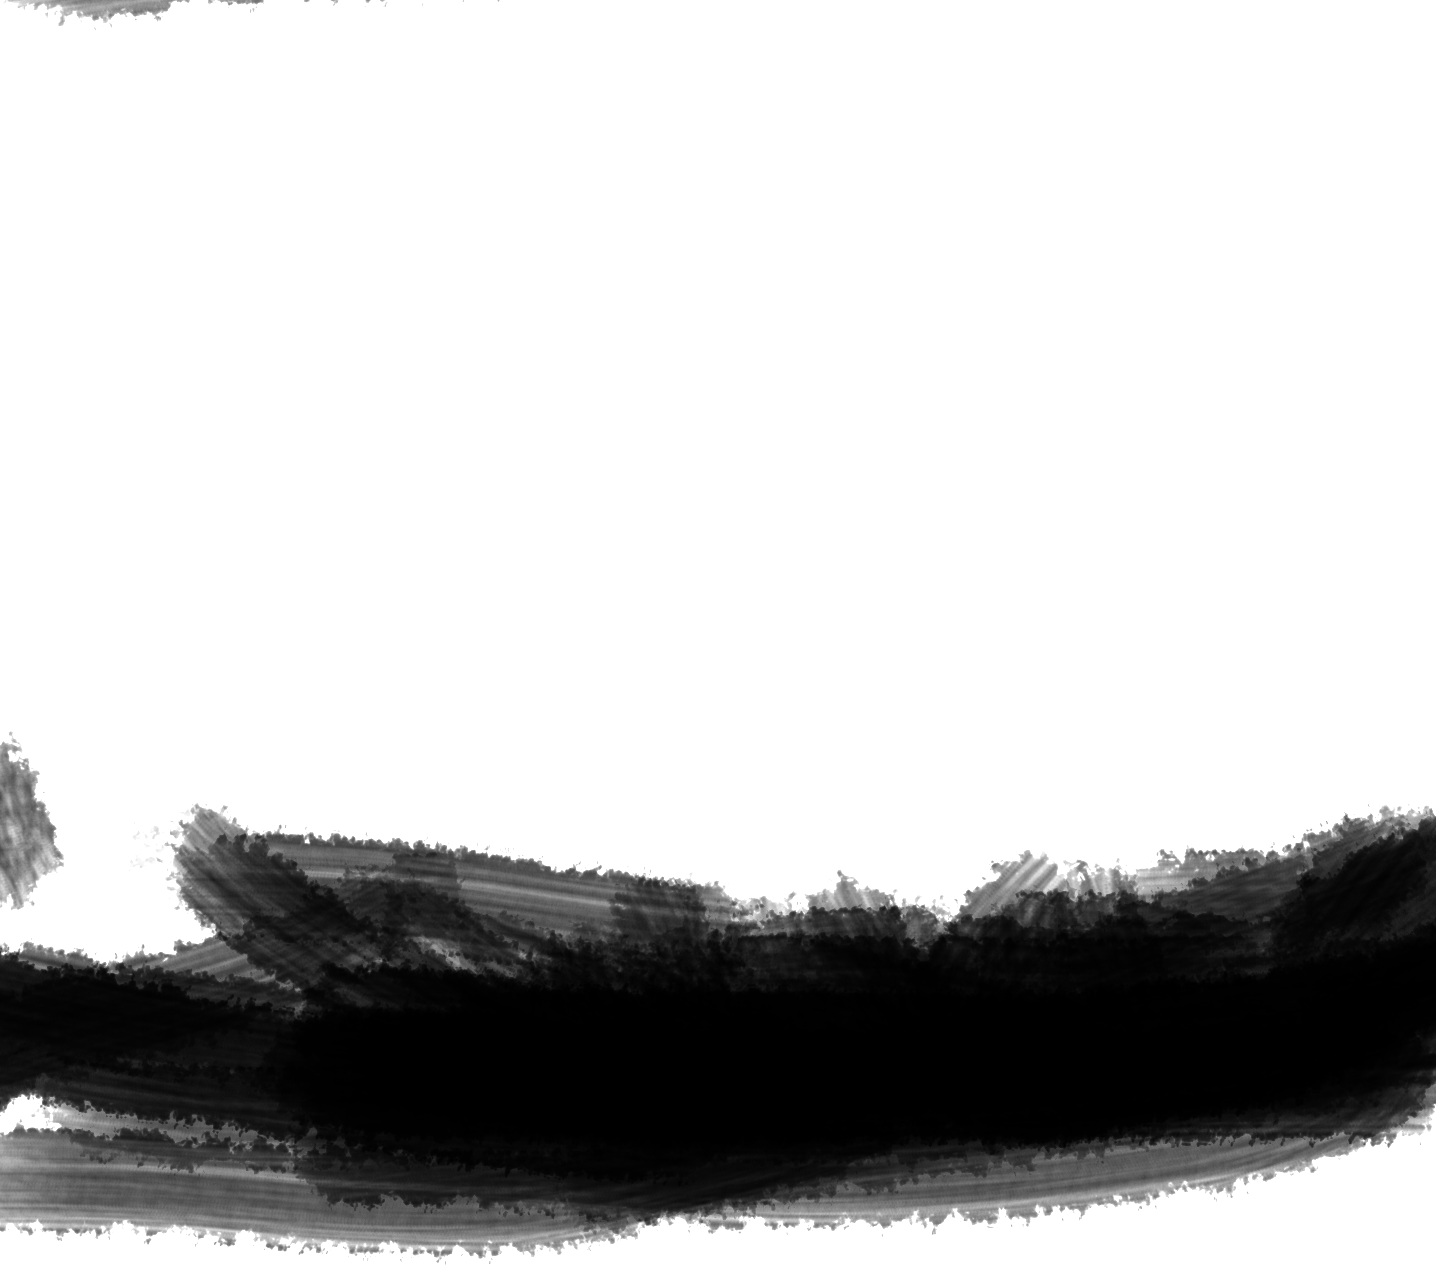
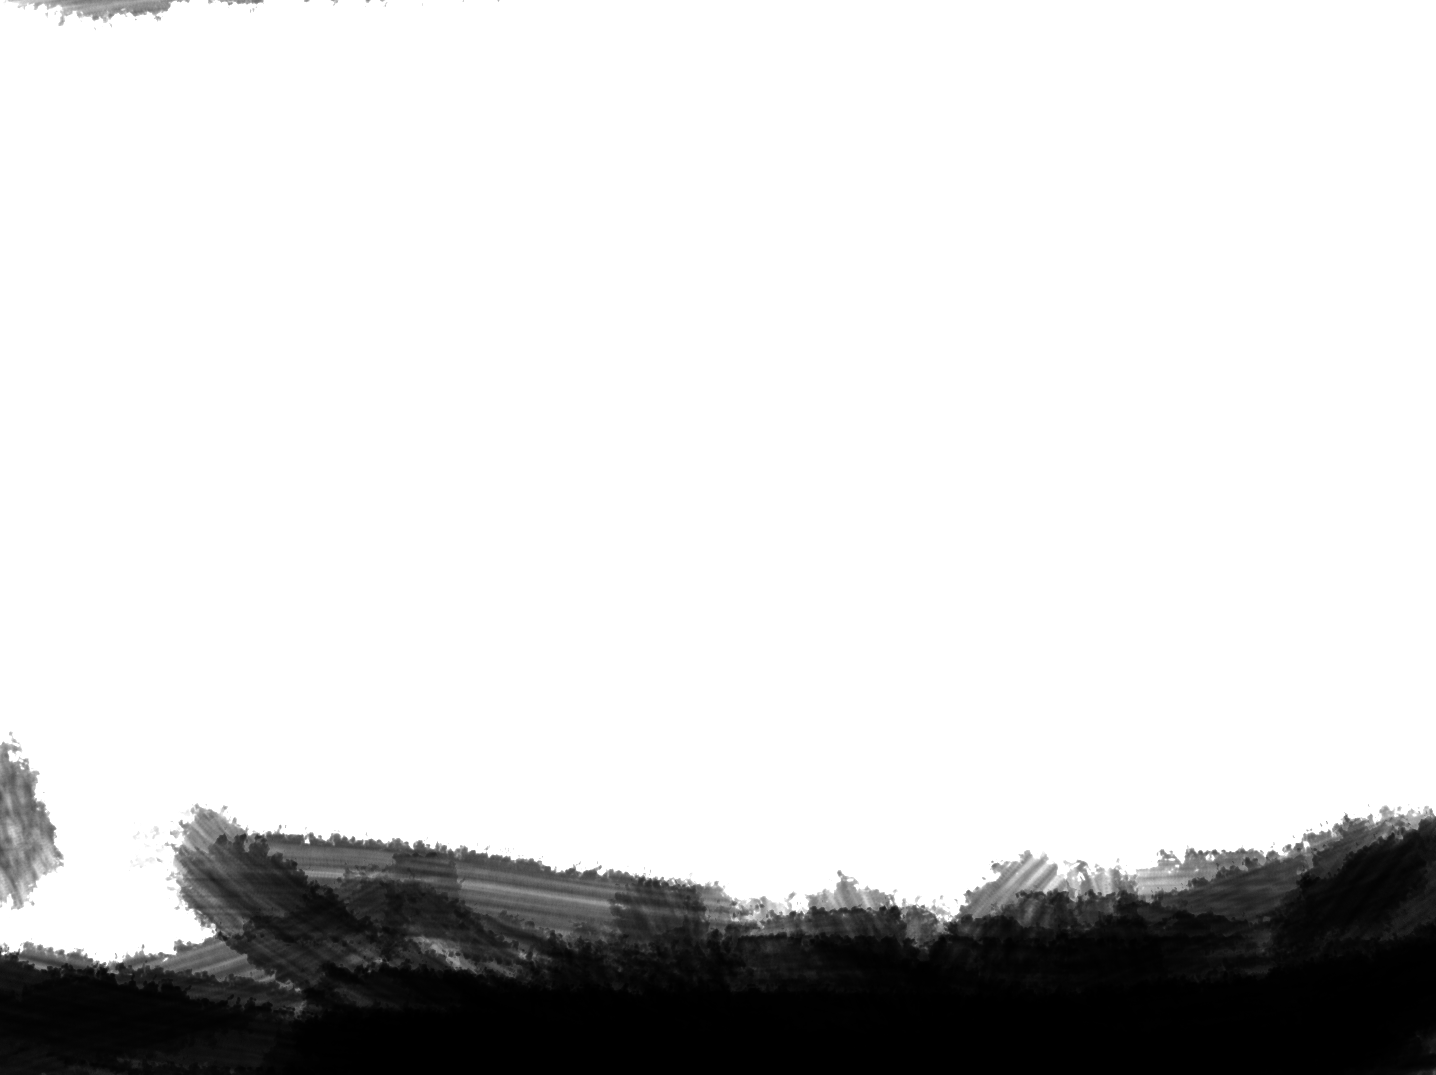
added brush effect at bottom in cover section

Changed region(s): [[0.0, 0.5833, 1.0, 1.0], [0.0306, 0.0, 0.1226, 0.0307]]

diff --git a/css/home.css b/css/home.css
@@ -1,8 +1,8 @@
 body{
-    background: url('/img/Desktop HD.png');
+    /*background: url('/img/Desktop HD.png');
     background-size: cover;
     background-repeat: no-repeat;
-    opacity: 0.5;
+    opacity: 0.5;*/
 }
 
 header{
@@ -125,6 +125,18 @@ nav#work-navbar > .nav-container .navbar-right > ul.nav > li:not(:last-child){
     background-repeat: no-repeat;
 }
 
+#cover-brush{
+  
+    min-height: 954px;
+    width: 100%;
+    top: 0;
+    left: 0;
+    right: 0;
+    bottom: 0;
+    background-size: cover;
+    background-position: bottom center;
+    background-repeat: no-repeat;
+}
 
 /*sidebar style*/
 #sidebar{

diff --git a/_includes/front/cover.html b/_includes/front/cover.html
@@ -1,3 +1,7 @@
 <div id="cover" style="background-image: url(img/coverbg.png)">
 	
+      	<div id="cover-brush" style="background-image: url(img/coverbrush.png);">
+      		
+      	</div>
+ 
 </div>
